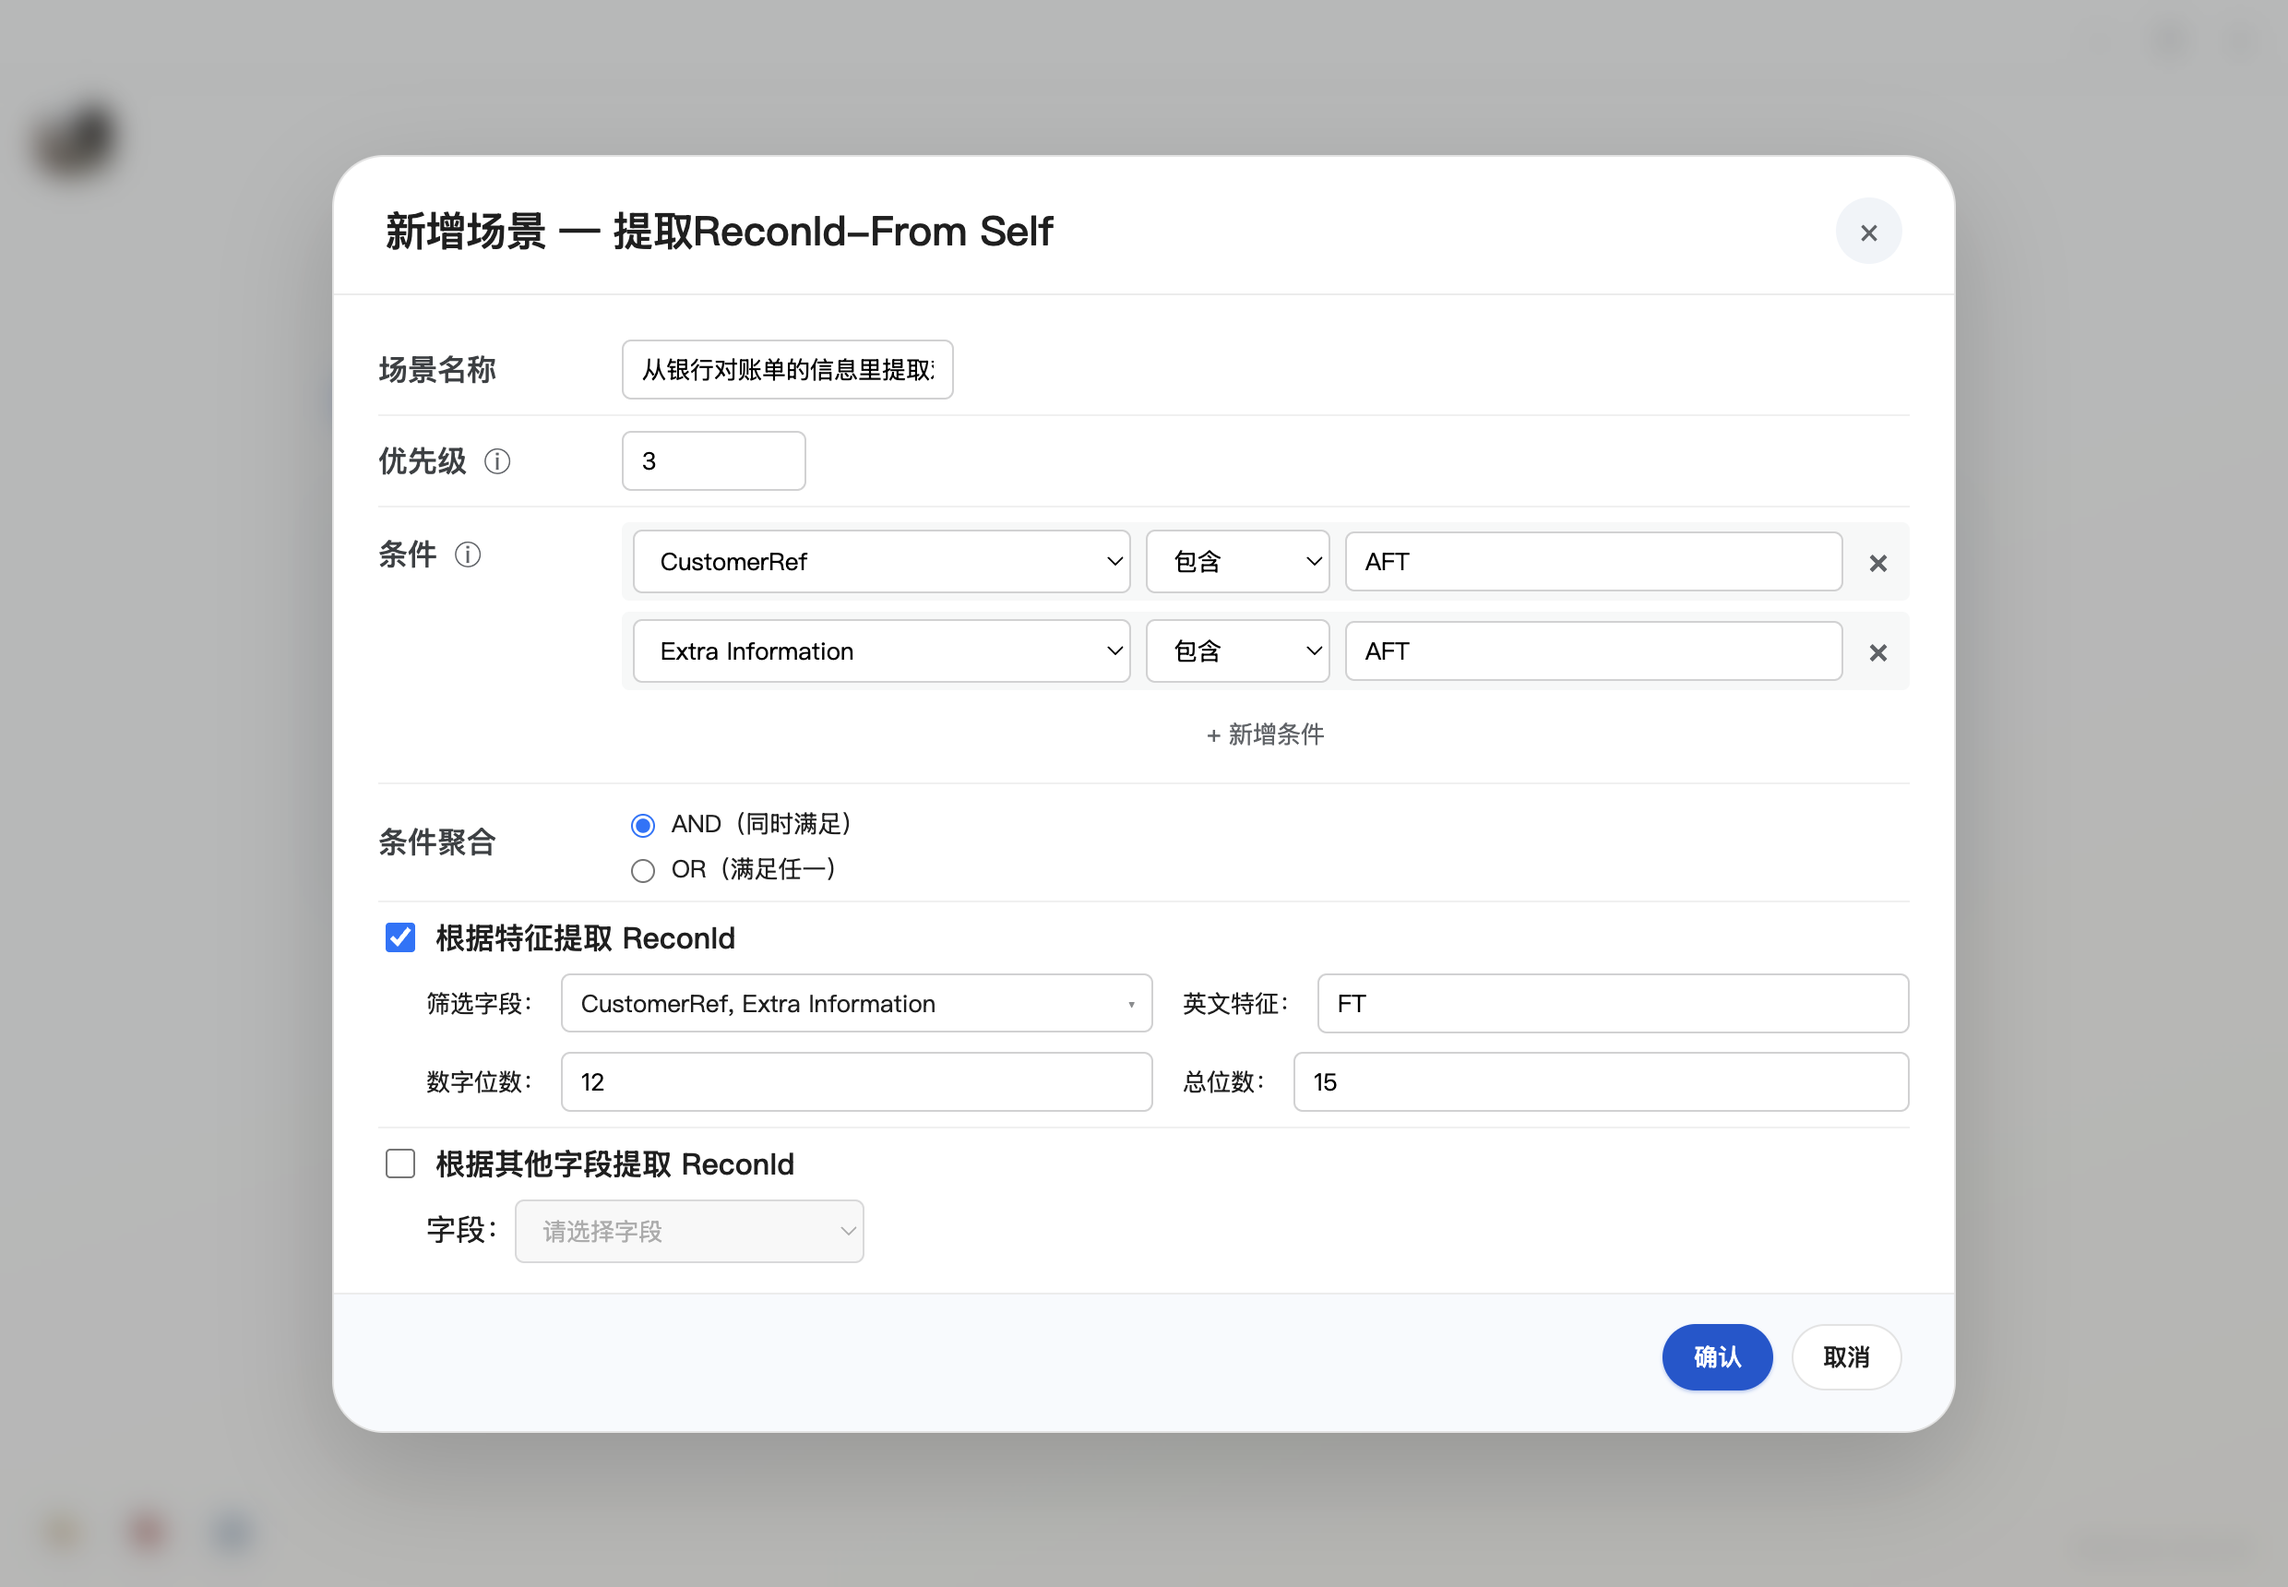
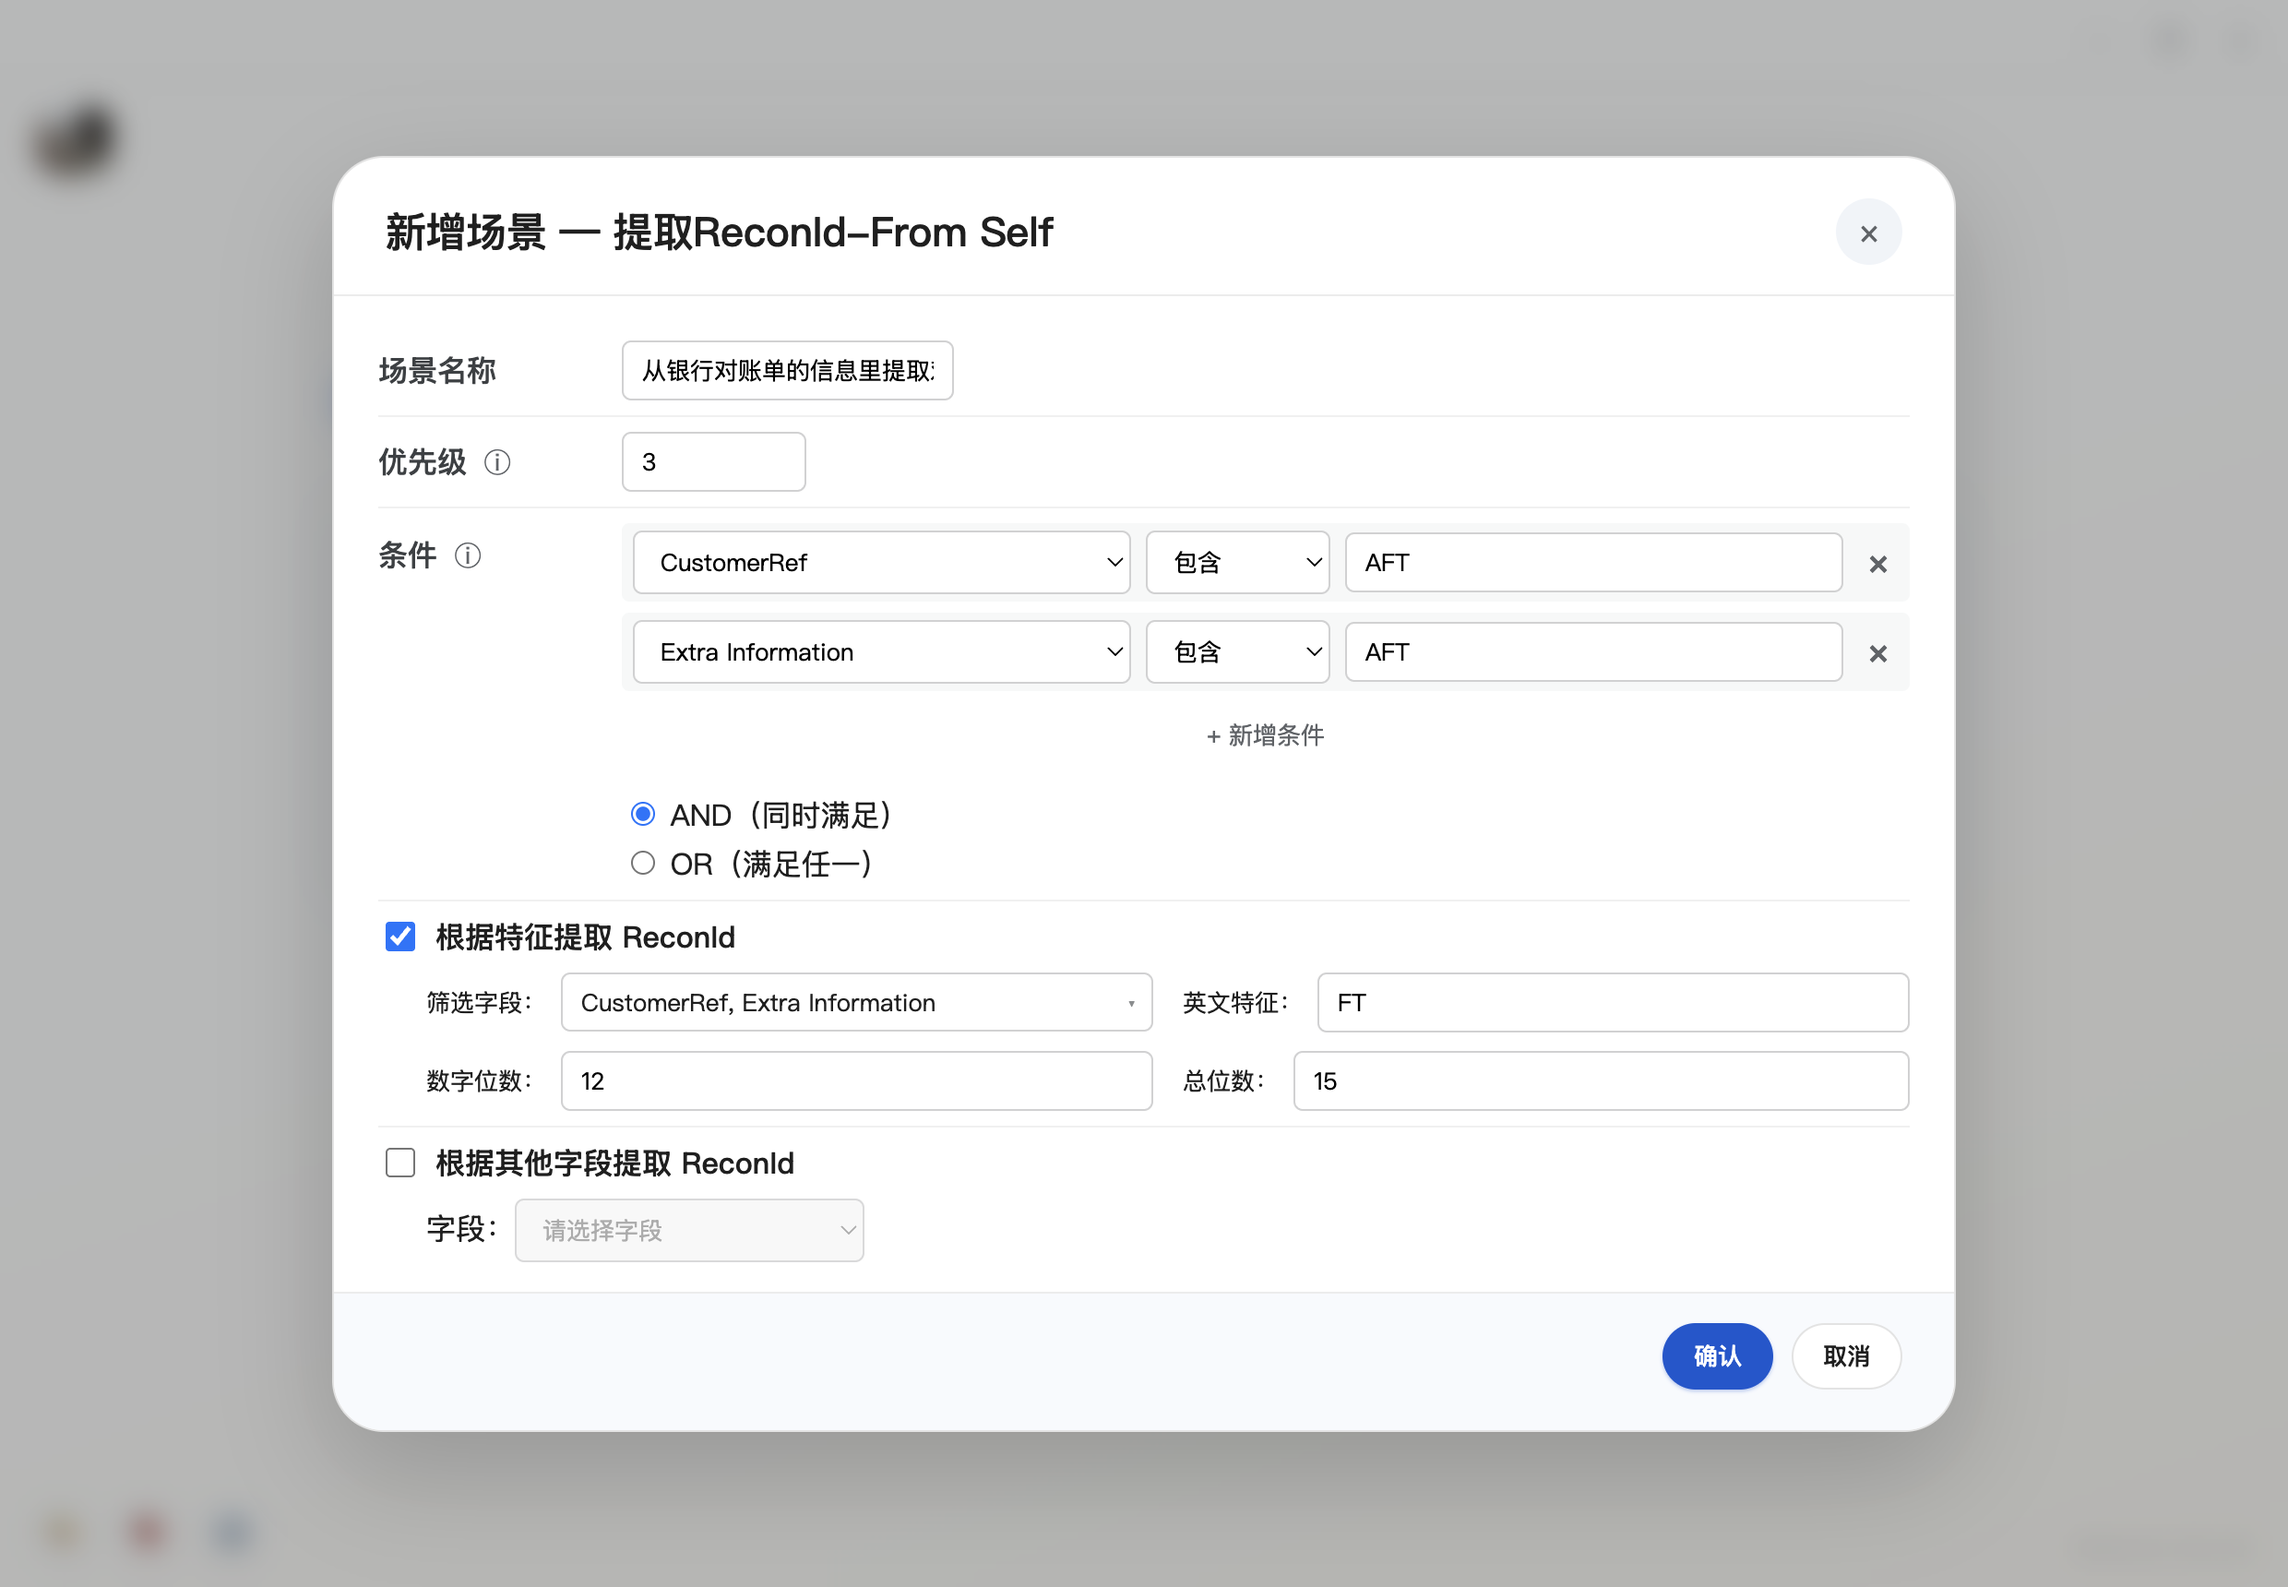
[v2.1.7] fix(B1): F1 radio 移回'条件' row 内（用户再次反馈）
撤销 R5 独立 .scenario-config-row '条件聚合'，把 radio 移到 '条件' row 内
   .scenario-config-multi-wrap 末尾，紧贴 '+ 新增条件' 按钮下方

src/renderer-dialogs.js（spec §9.2.2）：
- DOM 重组：删除独立的 .scenario-config-row + .scenario-config-logic-stack 块
- 新增 .scenario-config-logic-inline 容器（margin-top:8px 与上方按钮分隔）
  紧贴 + 新增条件 按钮下方
- 保留纵向 label（AND 在上 OR 在下；display:block + margin-bottom:4px）
- tooltip 文案微调 '按下方选择的逻辑聚合条件' → '按下方选择的聚合逻辑'

资金红线三层护栏（spec §9.2.3）保持完全不动：
1. createDefaultScenarioConfig 仅 mode=create 默认 'AND'
2. pickConditionsLogicChecked(draft) helper 按 mode 分支：edit + 老 scenario 无 logic → OR
3. c1-extract-recon-id.js runC1Scenario fallback OR

scripts/smoke/scenario-c1-defaults.js R5-W-4/R5-W-5 加固：
- grep 兼容 stack 或 inline 两种容器（R5 → B1 后路径切换）
- AND 在 OR 之前断言不变（核心顺序约束）

preview 重跑（spec §9.2.4 靠 preview regression + 手测）：
- docs/previews/scenario-config-c1.png — AND 默认选中 + radio 在 '条件' row 内 ✅
- docs/previews/scenario-config-c1-and.png — AND 显式选中场景 ✅

全 22 个 smoke suite 全过（scenario-c1-defaults 21/21 + render-status-box 25/25 含 B5）

spec §9.2 / PRD §14.1（B1）

diff --git a/src/renderer-dialogs.js b/src/renderer-dialogs.js
@@ -6323,25 +6323,22 @@
             <input class="scenario-config-input scenario-config-input-narrow" type="number" min="0" max="3" data-field="priority" ${isReadonly ? 'disabled' : ''} value="${draft.priority ?? 0}">
           </div>
           <div class="scenario-config-row scenario-config-row-multi">
-            <span class="scenario-config-label">条件 <span class="scenario-config-tooltip" title="按下方选择的逻辑聚合条件">ⓘ</span></span>
+            <span class="scenario-config-label">条件 <span class="scenario-config-tooltip" title="按下方选择的聚合逻辑">ⓘ</span></span>
             <div class="scenario-config-multi-wrap">
               <div class="scenario-config-multi-rows" data-multi="conditions"></div>
               ${isReadonly ? '' : '<button class="text-action small" type="button" data-action="add-condition">+ 新增条件</button>'}
-            </div>
-          </div>
-          <!-- v2.1.7 round 2 R5：条件聚合 radio 拆成独立 row + 纵向（AND 在上 OR 在下）+ label 复用标准 scenario-config-label
-               资金红线护栏：checkedLogic 由 pickConditionsLogicChecked(draft) 决定（spec §8.6.3 / §8.6.5） -->
-          <div class="scenario-config-row">
-            <span class="scenario-config-label">条件聚合</span>
-            <div class="scenario-config-logic-stack">
-              <label class="scenario-config-logic-stack-option">
-                <input type="radio" name="conditionsLogic" value="AND" ${checkedLogic === 'AND' ? 'checked' : ''} ${isReadonly ? 'disabled' : ''}>
-                AND（同时满足）
-              </label>
-              <label class="scenario-config-logic-stack-option">
-                <input type="radio" name="conditionsLogic" value="OR" ${checkedLogic === 'OR' ? 'checked' : ''} ${isReadonly ? 'disabled' : ''}>
-                OR（满足任一）
-              </label>
+              <!-- v2.1.7 round 3 B1：radio 移回"条件"row 内部（用户反馈 R5 独立 row 视觉不一致；spec §9.2.2）
+                   保留 R5 资金红线三层护栏（默认 config / pickConditionsLogicChecked / 引擎 fallback OR）不动 -->
+              <div class="scenario-config-logic-inline" style="margin-top:8px;">
+                <label style="display:block; margin-bottom:4px;">
+                  <input type="radio" name="conditionsLogic" value="AND" ${checkedLogic === 'AND' ? 'checked' : ''} ${isReadonly ? 'disabled' : ''}>
+                  AND（同时满足）
+                </label>
+                <label style="display:block;">
+                  <input type="radio" name="conditionsLogic" value="OR" ${checkedLogic === 'OR' ? 'checked' : ''} ${isReadonly ? 'disabled' : ''}>
+                  OR（满足任一）
+                </label>
+              </div>
             </div>
           </div>
           <div class="scenario-config-row scenario-config-row-mutex">

diff --git a/scripts/smoke/scenario-c1-defaults.js b/scripts/smoke/scenario-c1-defaults.js
@@ -200,16 +200,17 @@ function caseR5_wiringGrep() {
   assertTrue(/checkedLogic === 'OR' \? 'checked' : ''/.test(dialogsSrc),
     'R5-W-3 dialog radio OR checked 由 checkedLogic 决定');
 
-  // 4. dialog HTML 含 scenario-config-logic-stack（独立 row + 纵向）
-  assertTrue(/scenario-config-logic-stack/.test(dialogsSrc),
-    'R5-W-4 dialog HTML 含 scenario-config-logic-stack 独立 row 纵向布局');
+  // 4. dialog HTML 含 conditionsLogic radio 容器（B1 round 3 后 .scenario-config-logic-stack
+  //    → .scenario-config-logic-inline 移回"条件"row 内部；spec §9.2.2）
+  assertTrue(/scenario-config-logic-(stack|inline)/.test(dialogsSrc),
+    'R5-W-4 dialog HTML 含 conditionsLogic radio 容器（stack 独立 row 或 inline 内嵌"条件"row）');
 
-  // 5. dialog HTML AND 在 OR 之前（纵向 AND 在上 OR 在下）
-  const stackMatch = dialogsSrc.match(/scenario-config-logic-stack[^]*?<\/div>/);
-  assertTrue(stackMatch !== null, 'R5-W-5 找到 scenario-config-logic-stack 块');
-  if (stackMatch) {
-    const andIdx = stackMatch[0].indexOf('value="AND"');
-    const orIdx = stackMatch[0].indexOf('value="OR"');
+  // 5. dialog HTML AND 在 OR 之前（纵向 AND 在上 OR 在下；B1 后仍保持）
+  const containerMatch = dialogsSrc.match(/scenario-config-logic-(stack|inline)[^]*?<\/div>/);
+  assertTrue(containerMatch !== null, 'R5-W-5 找到 conditionsLogic radio 容器块');
+  if (containerMatch) {
+    const andIdx = containerMatch[0].indexOf('value="AND"');
+    const orIdx = containerMatch[0].indexOf('value="OR"');
     assertTrue(andIdx > 0 && orIdx > 0 && andIdx < orIdx,
       'R5-W-5 AND radio 在 OR radio 之前（纵向 AND 在上 OR 在下，spec §8.6.3）');
   }
